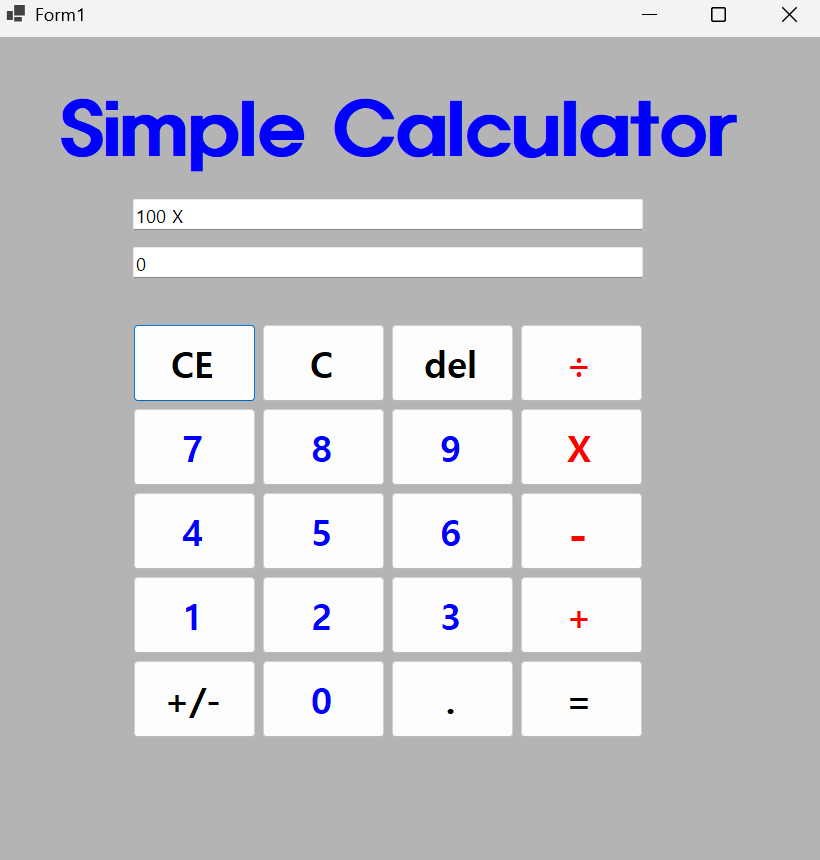
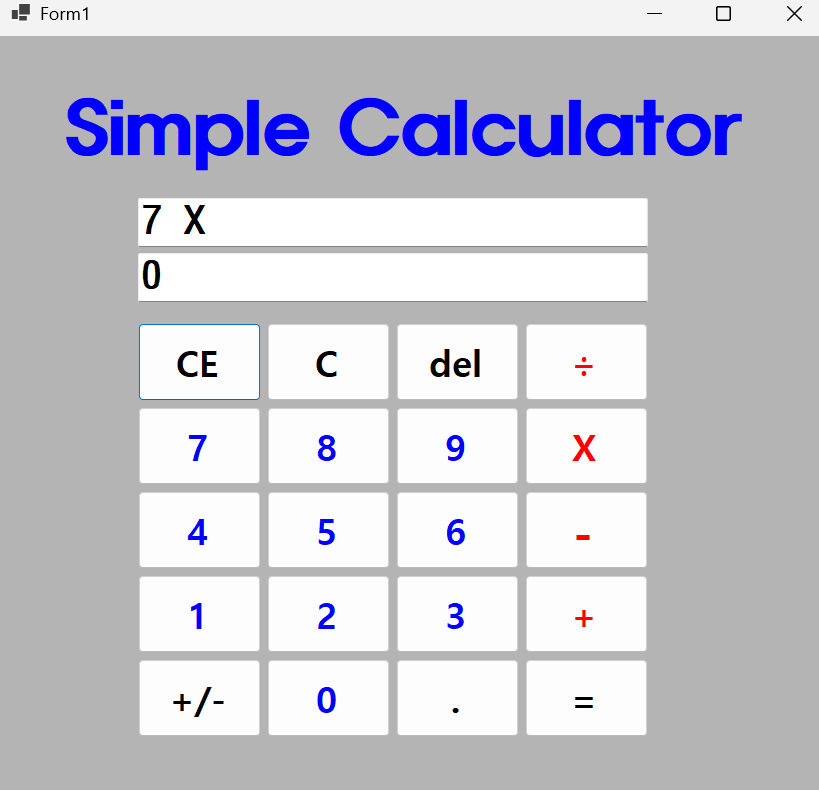
과제4 코딩과 테스트 완료 0으로 나누었을 때 '0으로 나눌 수 없습니다' 문구 표시한다. 키보드로 식 입력 가능하도록 구현 가능하다. Enter 키 입력 시 계산이 수행되고 결과가 표시된다. 키보드로 괄호 입력 시 괄호 들어간 식을 구현 가능하다.

diff --git a/Form1.cs b/Form1.cs
@@ -1,135 +1,189 @@
 using System;
+using System.Data;
 using System.Windows.Forms;
 
 namespace SimpleCalculator
 {
     public partial class Form1 : Form
     {
-        // 계산에 필요한 전역 변수들
-        private int firstNumber = 0;   // 첫 번째 피연산자
-        private int secondNumber = 0;  // 두 번째 피연산자
-        private string currentOperator = ""; // 현재 연산자 (+, -, X, ÷)
-        private bool isOperatorClicked = false; // 연산자가 클릭되었는지 여부 (새 숫자 입력용)
+        private bool isOperatorClicked = false;
 
         public Form1()
         {
             InitializeComponent();
-            AttachEvents(); // 프로그램 실행 시 버튼과 기능들을 연결합니다.
+            this.KeyPreview = true;
+            this.KeyDown += Form1_KeyDown;
 
-            Dividebtn.Enabled = true; // 디자이너에서 꺼져있던 나누기 버튼 활성화
+            AttachEvents();
         }
 
         // --------------------------------------------------
-        // [1] 숫자 입력 기능 (0 ~ 9 버튼 클릭 시)
+        // [키보드 실시간 입력 제어]
         // --------------------------------------------------
-        private void Number_Click(object sender, EventArgs e)
+        private void Form1_KeyDown(object sender, KeyEventArgs e)
         {
-            Button btn = sender as Button;
+            if (e.Shift)
+            {
+                if (e.KeyCode == Keys.D9) { AddBracketToTextBox("("); e.SuppressKeyPress = true; e.Handled = true; return; }
+                if (e.KeyCode == Keys.D0) { AddBracketToTextBox(")"); e.SuppressKeyPress = true; e.Handled = true; return; }
+                if (e.KeyCode == Keys.Oemplus) { AppendTextToTextBox("+"); e.SuppressKeyPress = true; e.Handled = true; return; }
+            }
 
-            if (txtBox2.Text == "0" || isOperatorClicked)
+            bool handled = false;
+            string pressedNumber = "";
+
+            if (!e.Shift && e.KeyCode >= Keys.D0 && e.KeyCode <= Keys.D9)
+            {
+                pressedNumber = (e.KeyCode - Keys.D0).ToString();
+                handled = true;
+            }
+            else if (e.KeyCode >= Keys.NumPad0 && e.KeyCode <= Keys.NumPad9)
+            {
+                pressedNumber = (e.KeyCode - Keys.NumPad0).ToString();
+                handled = true;
+            }
+
+            if (handled)
+            {
+                AppendTextToTextBox(pressedNumber);
+                e.SuppressKeyPress = true;
+                e.Handled = true;
+                return;
+            }
+
+            // ★ 키보드로 곱하기(*)나 나누기(/)를 쳐도 화면에는 'X'와 '÷'로 뜨게 바꿨습니다!
+            if (e.KeyCode == Keys.Add) { AppendTextToTextBox("+"); e.SuppressKeyPress = true; e.Handled = true; }
+            else if (e.KeyCode == Keys.Subtract || e.KeyCode == Keys.OemMinus) { AppendTextToTextBox("-"); e.SuppressKeyPress = true; e.Handled = true; }
+            else if (e.KeyCode == Keys.Multiply) { AppendTextToTextBox("X"); e.SuppressKeyPress = true; e.Handled = true; }
+            else if (e.KeyCode == Keys.Divide || e.KeyCode == Keys.OemQuestion) { AppendTextToTextBox("÷"); e.SuppressKeyPress = true; e.Handled = true; }
+
+            else if (e.KeyCode == Keys.Enter) { e.SuppressKeyPress = true; e.Handled = true; Answerbtn_Click(null, null); }
+            else if (e.KeyCode == Keys.Back) { Delbtn_Click(null, null); e.SuppressKeyPress = true; e.Handled = true; }
+            else if (e.KeyCode == Keys.Escape) { Cbtn_Click(null, null); e.SuppressKeyPress = true; e.Handled = true; }
+            else if (e.KeyCode == Keys.Decimal || e.KeyCode == Keys.OemPeriod) { AppendTextToTextBox("."); e.SuppressKeyPress = true; e.Handled = true; }
+        }
+
+
+        private void AppendTextToTextBox(string text)
+        {
+            if (txtBox2.Text == "0" || txtBox2.Text == "에러" || txtBox2.Text == "0으로 나눌 수 없습니다.")
+                txtBox2.Text = "";
+
+            if (isOperatorClicked)
             {
                 txtBox2.Text = "";
                 isOperatorClicked = false;
             }
 
-            txtBox2.Text += btn.Text;
+            int cursorPosition = txtBox2.SelectionStart;
+            string beforeText = txtBox2.Text.Substring(0, cursorPosition);
+            string afterText = txtBox2.Text.Substring(cursorPosition);
+
+            txtBox2.Text = beforeText + text + afterText;
+            txtBox2.SelectionStart = cursorPosition + text.Length;
+
+            txtBox1.Text = txtBox2.Text;
         }
 
-        // --------------------------------------------------
-        // [2] 사칙연산 기호 입력 기능 (+, -, X, ÷ 버튼 클릭 시)
-        // --------------------------------------------------
+        private void AddBracketToTextBox(string bracket)
+        {
+            if (txtBox2.Text == "0" || txtBox2.Text == "에러" || txtBox2.Text == "0으로 나눌 수 없습니다.")
+                txtBox2.Text = "";
+
+            int cursorPosition = txtBox2.SelectionStart;
+            string beforeText = txtBox2.Text.Substring(0, cursorPosition);
+            string afterText = txtBox2.Text.Substring(cursorPosition);
+
+            txtBox2.Text = beforeText + bracket + afterText;
+            txtBox2.SelectionStart = cursorPosition + 1;
+
+            txtBox1.Text = txtBox2.Text;
+        }
+
+
+        private void Number_Click(object sender, EventArgs e)
+        {
+            Button btn = sender as Button;
+            AppendTextToTextBox(btn.Text);
+        }
+
         private void Operator_Click(object sender, EventArgs e)
         {
             Button btn = sender as Button;
-            currentOperator = btn.Text;
-
-            firstNumber = int.Parse(txtBox2.Text);
-
-            isOperatorClicked = true;
-
-            txtBox1.Text = $"{firstNumber} {currentOperator}";
+            AppendTextToTextBox(btn.Text); // 화면에는 X나 ÷가 그대로 찍힘!
         }
 
+
         // --------------------------------------------------
-        // [3] 계산 결과 출력 기능 (= 버튼 클릭 시)
+        // [★ 마법의 정점] 내부에서만 몰래 컴퓨터 기호로 치환해서 계산
         // --------------------------------------------------
         private void Answerbtn_Click(object sender, EventArgs e)
         {
-            secondNumber = int.Parse(txtBox2.Text);
-            int result = 0;
-
-            switch (currentOperator)
+            try
             {
-                case "+":
-                    result = firstNumber + secondNumber;
-                    break;
-                case "-":
-                    result = firstNumber - secondNumber;
-                    break;
-                case "X":
-                    result = firstNumber * secondNumber;
-                    break;
-                case "÷":
-                    if (secondNumber != 0)
-                    {
-                        result = firstNumber / secondNumber;
-                    }
-                    else
-                    {
-                        MessageBox.Show("0으로 나눌 수 없습니다!", "계산 오류", MessageBoxButtons.OK, MessageBoxIcon.Error);
-                        txtBox2.Text = "0";
-                        return;
-                    }
-                    break;
+                string expression = txtBox2.Text;
+
+                // ★ 화면에 보이는 X와 ÷를 컴퓨터가 읽을 수 있는 *와 /로 치환합니다!
+                expression = expression.Replace("X", "*").Replace("÷", "/");
+
+                DataTable dt = new DataTable();
+                var result = dt.Compute(expression, "");
+
+                txtBox1.Text = txtBox2.Text + " ="; // 상단에는 사람이 보던 'X' 수식 그대로 출력
+                txtBox2.Text = result.ToString();
+
+                isOperatorClicked = true;
             }
-
-            txtBox2.Text = result.ToString();
-            txtBox1.Text = $"{firstNumber} {currentOperator} {secondNumber} = {result}";
-
-            isOperatorClicked = true;
+            catch (DivideByZeroException)
+            {
+                txtBox2.Text = "0으로 나눌 수 없습니다.";
+                isOperatorClicked = true;
+            }
+            catch
+            {
+                txtBox2.Text = "에러";
+                isOperatorClicked = true;
+            }
         }
 
-        // --------------------------------------------------
-        // [4] 수정 및 삭제 기능 (CE, C, del 버튼 클릭 시)
-        // --------------------------------------------------
 
-        // CE 버튼 : 마지막에 입력한 하단 텍스트박스(피연산자) 값만 초기화
         private void CEbtn_Click(object sender, EventArgs e)
         {
             txtBox2.Text = "0";
+            txtBox1.Text = "0";
         }
 
-        // C 버튼 : 메모리 변수와 모든 텍스트박스를 처음 상태로 초기화
         private void Cbtn_Click(object sender, EventArgs e)
         {
             txtBox1.Text = "";
             txtBox2.Text = "0";
-
-            firstNumber = 0;
-            secondNumber = 0;
-            currentOperator = "";
             isOperatorClicked = false;
         }
 
-        // Del 버튼 : 마지막에 입력된 숫자 글자 하나만 제거
         private void Delbtn_Click(object sender, EventArgs e)
         {
-            if (txtBox2.Text.Length > 0)
-            {
-                // 문자열의 마지막 한 글자를 잘라냅니다.
-                txtBox2.Text = txtBox2.Text.Substring(0, txtBox2.Text.Length - 1);
-            }
-
-            // 다 지워져서 공백이 되거나 음수 부호만 남을 시 "0"으로 보정합니다.
-            if (txtBox2.Text == "" || txtBox2.Text == "-")
+            if (txtBox2.Text == "에러" || txtBox2.Text == "0으로 나눌 수 없습니다.")
             {
                 txtBox2.Text = "0";
+                return;
             }
+
+            int cursorPosition = txtBox2.SelectionStart;
+
+            if (cursorPosition > 0 && txtBox2.Text.Length > 0)
+            {
+                string beforeText = txtBox2.Text.Substring(0, cursorPosition - 1);
+                string afterText = txtBox2.Text.Substring(cursorPosition);
+
+                txtBox2.Text = beforeText + afterText;
+                txtBox2.SelectionStart = cursorPosition - 1;
+            }
+
+            if (txtBox2.Text == "") txtBox2.Text = "0";
+            txtBox1.Text = txtBox2.Text;
         }
 
-        // --------------------------------------------------
-        // [5] 디자이너에 생성된 버튼과 실제 코드를 묶어주는 연결 함수
-        // --------------------------------------------------
+
         private void AttachEvents()
         {
             number0.Click += Number_Click;
@@ -150,7 +204,6 @@ namespace SimpleCalculator
 
             Answerbtn.Click += Answerbtn_Click;
 
-            // 수정 및 삭제 이벤트 바인딩
             CEbtn.Click += CEbtn_Click;
             Cbtn.Click += Cbtn_Click;
             Delbtn.Click += Delbtn_Click;

diff --git a/Form1.Designer.cs b/Form1.Designer.cs
@@ -63,22 +63,23 @@
             txtlbl.Size = new Size(712, 80);
             txtlbl.TabIndex = 0;
             txtlbl.Text = "Simple Calculator";
-            
             // 
             // txtBox1
             // 
+            txtBox1.Font = new Font("휴먼모음T", 18F, FontStyle.Bold, GraphicsUnit.Point, 129);
             txtBox1.Location = new Point(141, 162);
             txtBox1.Name = "txtBox1";
-            txtBox1.Size = new Size(510, 31);
+            txtBox1.Size = new Size(510, 49);
             txtBox1.TabIndex = 1;
-            
             // 
             // txtBox2
             // 
-            txtBox2.Location = new Point(141, 210);
+            txtBox2.Font = new Font("휴먼모음T", 18F, FontStyle.Bold, GraphicsUnit.Point, 129);
+            txtBox2.Location = new Point(141, 217);
             txtBox2.Name = "txtBox2";
-            txtBox2.Size = new Size(510, 31);
+            txtBox2.Size = new Size(510, 49);
             txtBox2.TabIndex = 2;
+            
             // 
             // CEbtn
             // 
@@ -220,7 +221,6 @@
             number1.TabIndex = 15;
             number1.Text = "1";
             number1.UseVisualStyleBackColor = true;
-            
             // 
             // number2
             // 

diff --git a/README.md b/README.md
@@ -49,8 +49,6 @@
 ![과제2 실행화면1](img/과제2-1.png)
 ![과제2 실행화면2](img/과제2-2.png)
 ![과제2 실행화면3](img/과제2-3.png)
-![과제2 실행화면4](img/과제2-4.png)
-![과제2 실행화면5](img/과제2-5.png)
 
 - 과제 내용
 	- 계산기 프로그램 내 뺄셈(-), 곱셈(X), 나눗셈(÷) 연산 기능 추가 구현
@@ -79,3 +77,20 @@
 	- CE 버튼 클릭 시 마지막 입력한 피연산자(Operand) 값을 삭제한다. (두 번째 실행화면)
 	- del 버튼 클릭 시 마지막 입력된 글자 하나 (숫자 하나) 값을 삭제한다. (세 번째 실행화면)
 	
+
+## 실행 화면 (과제4)
+
+- 과제4 코드의 실행 스크린샷
+
+![과제4 실행화면1](img/과제4-1.png)
+![과제4 실행화면2](img/과제4-2.png)
+
+- 과제 내용
+	- 0으로 나누었을 때 '0으로 나눌 수 없습니다' 문구 표시
+	- 키보드로 식 입력 가능
+	
+- 구현 내용과 기능 설명
+	- 0으로 나누었을 때 '0으로 나눌 수 없습니다' 문구 표시한다.
+	- 키보드로 식 입력 가능하도록 구현 가능하다.
+	- Enter 키 입력 시 계산이 수행되고 결과가 표시된다.
+	- 키보드로 괄호 입력 시 괄호 들어간 식을 구현 가능하다.
